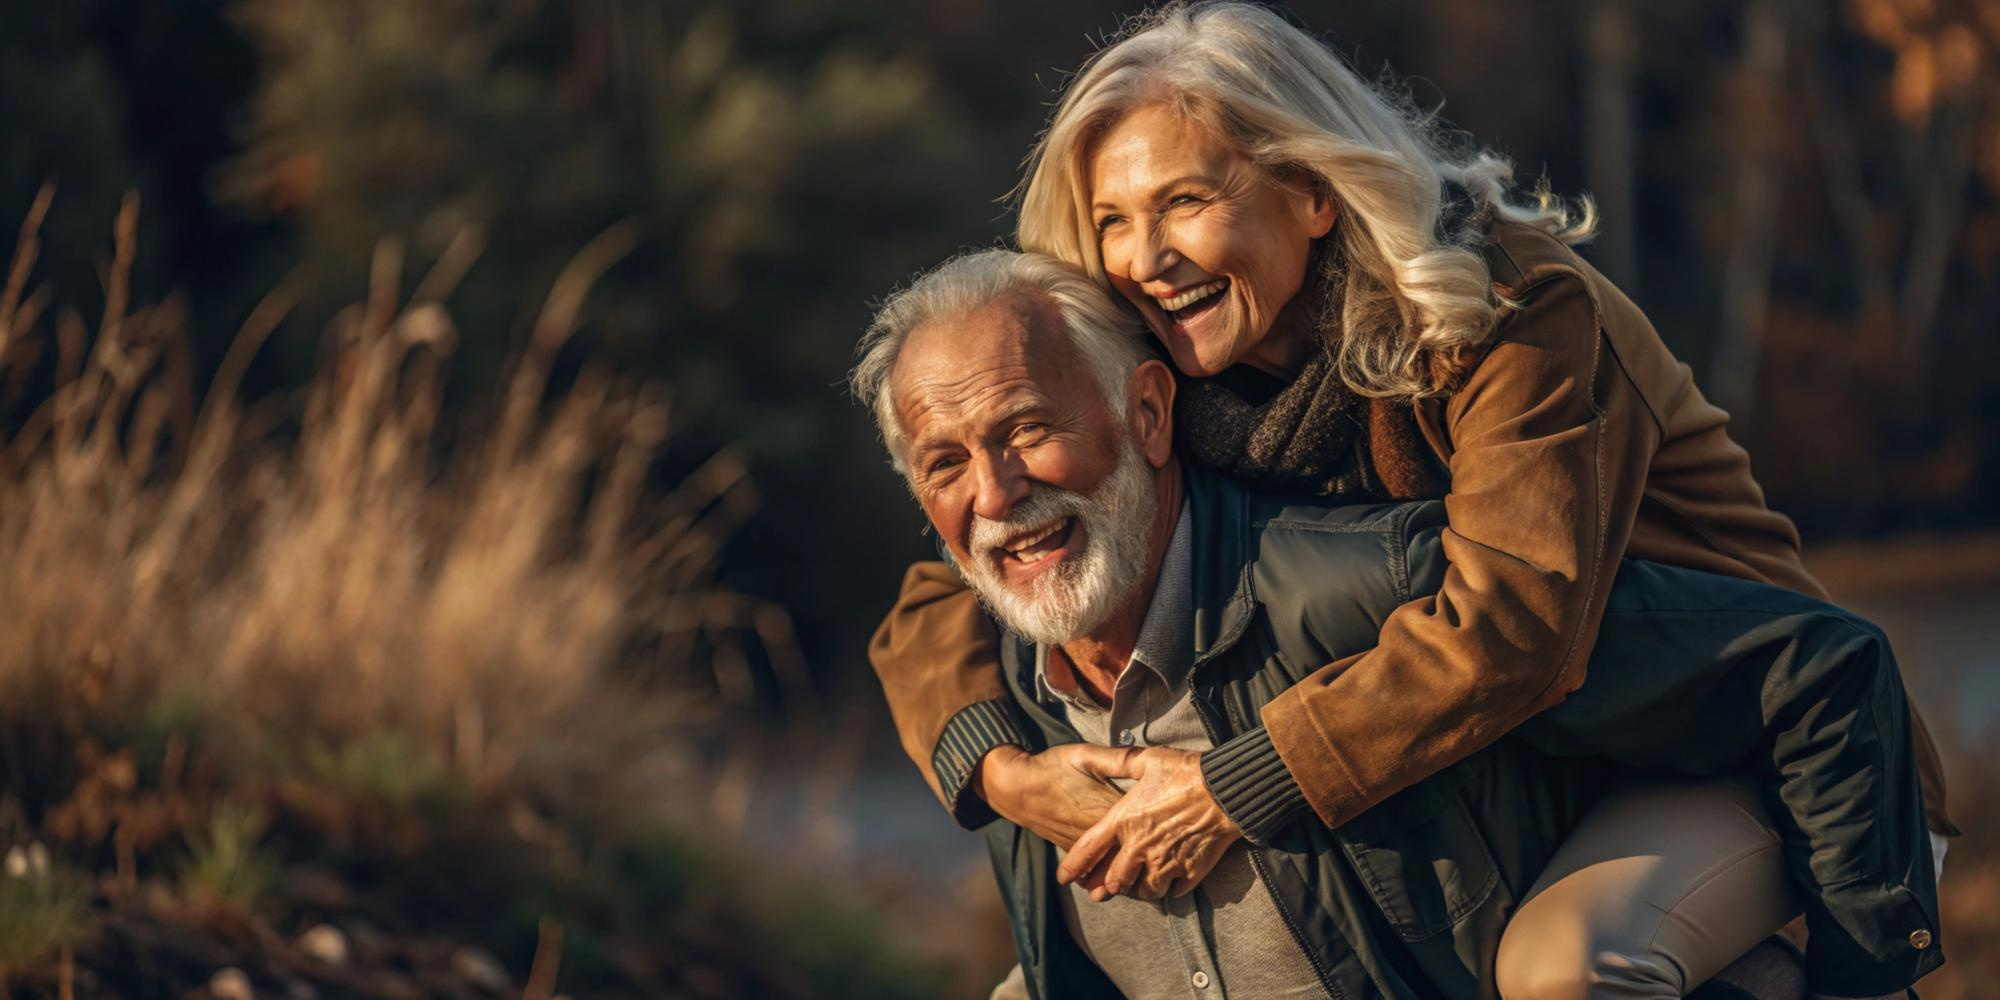
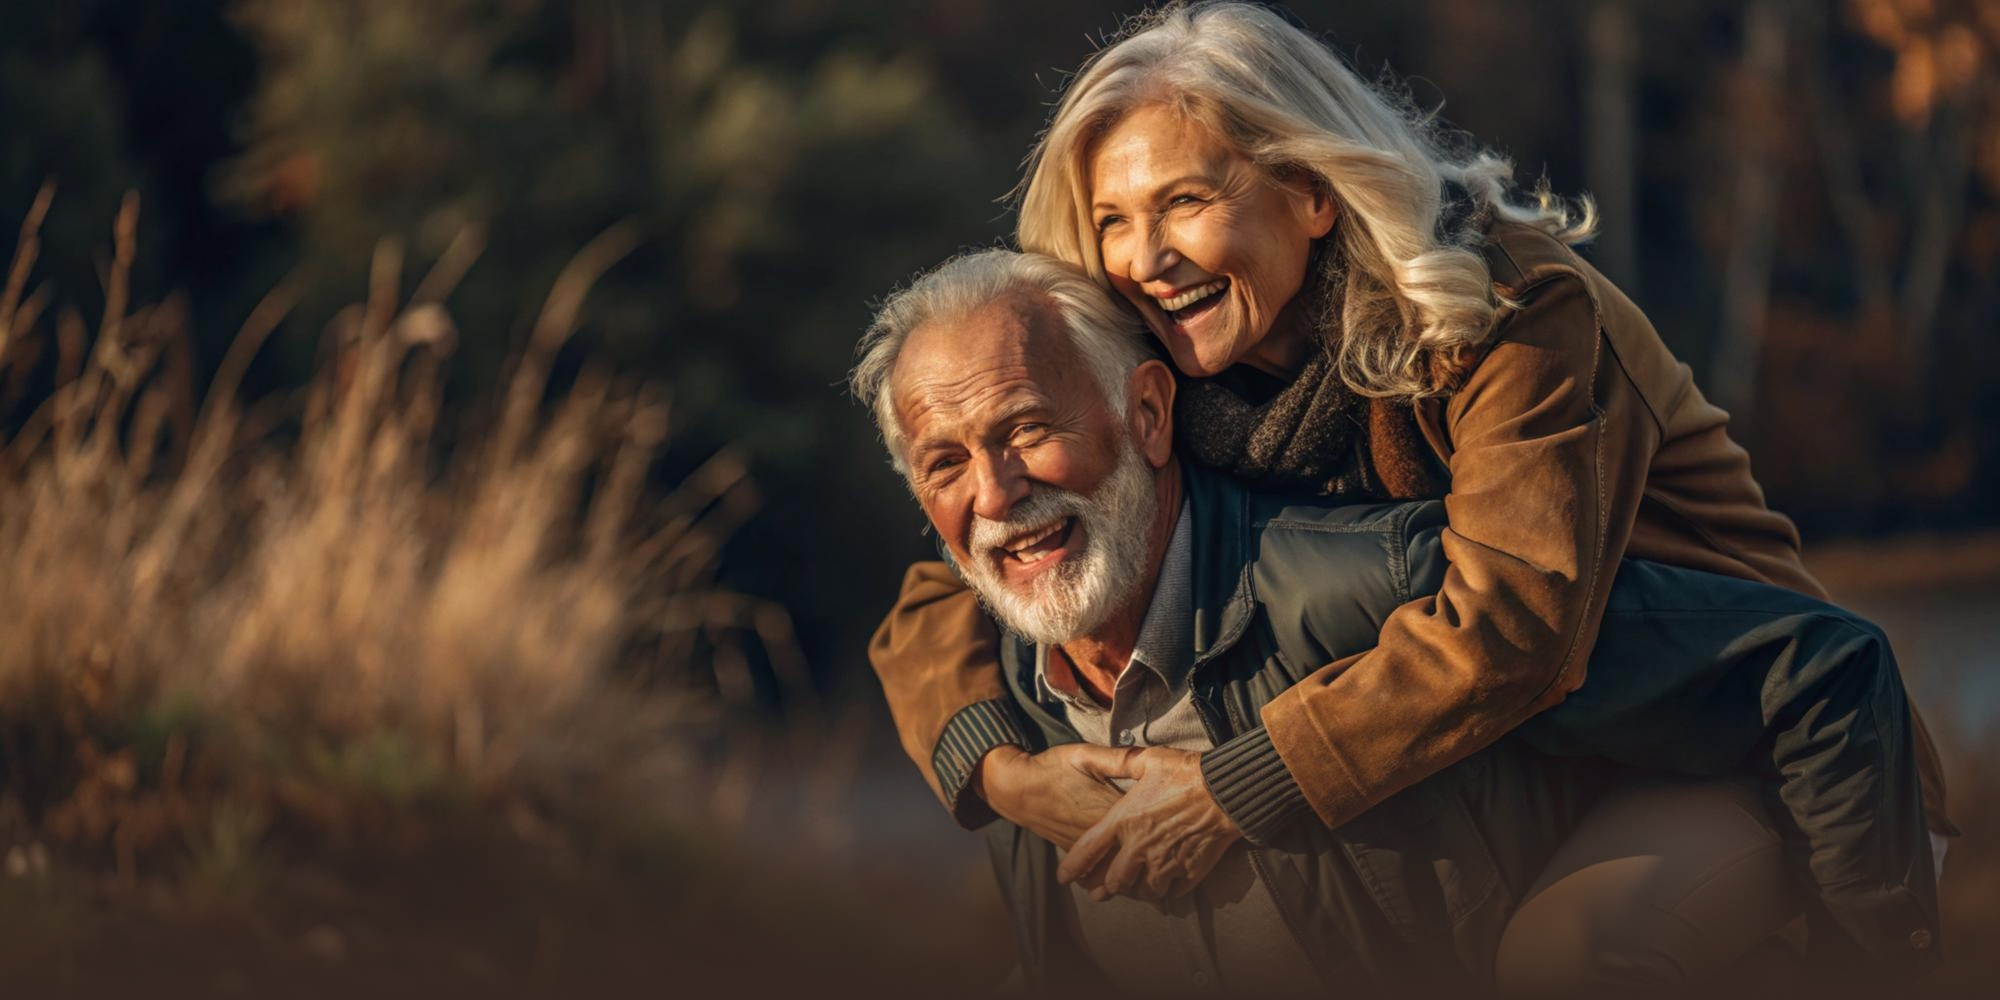
fix: Insere imagem na Lpv com background da cor do fundo

Changed region(s): [[0.403, 0.744, 1.0, 1.0], [0.0, 0.837, 0.465, 1.0], [0.0, 0.837, 0.062, 0.868]]

diff --git a/src/components/sections/lp01/HeroLP.jsx b/src/components/sections/lp01/HeroLP.jsx
@@ -8,7 +8,7 @@ export default function HeroLP({ fullImg }) {
   return fullImg ? (
     <div className="gradient-LP-Hero">
       <div
-        className="desktop1:hidden font-mainFont bg-[size:100%_auto] phone2:bg-[size:100%_auto] phone3:bg-[size:100%_auto]  bg-no-repeat h-auto"
+        className="desktop1:hidden font-mainFont bg-[size:100%_auto] phone2:bg-[size:100%_auto] phone3:bg-[size:100%_auto] bg-no-repeat h-auto"
         style={{
           backgroundImage: `linear-gradient(rgba(0, 0, 0, 0.7), rgba(0, 0, 0, 0.7)), url(${contentLp01.hero.bgImg})`,
         }}

diff --git a/src/index.css b/src/index.css
@@ -201,8 +201,8 @@
 .gradient-LP-Hero {
   background: radial-gradient(
     circle,
-    rgba(0, 44, 24) 0%,
-    rgba(0, 44, 24) 35%,
-    rgb(0, 44, 24) 100%
+    rgba(48, 38, 32) 0%,
+    rgba(48, 38, 32) 35%,
+    rgba(48, 38, 32) 100%
   );
 }
